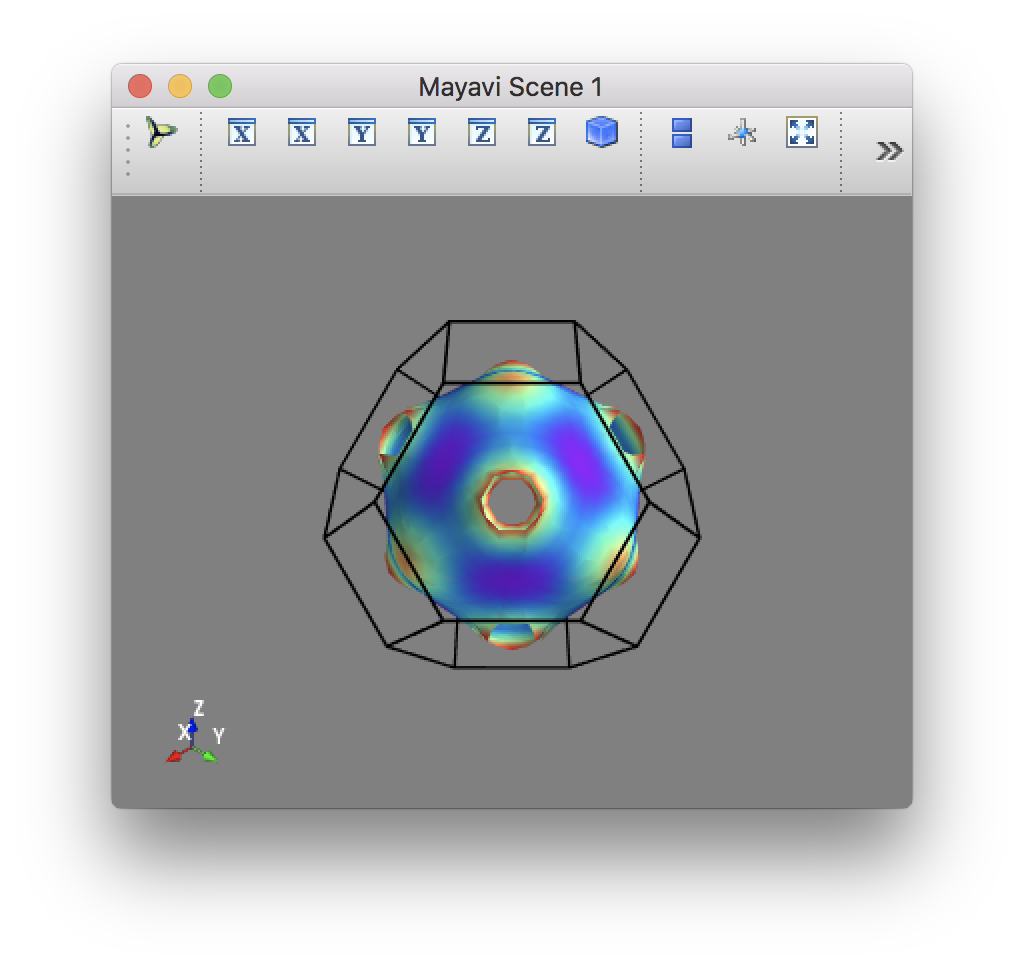
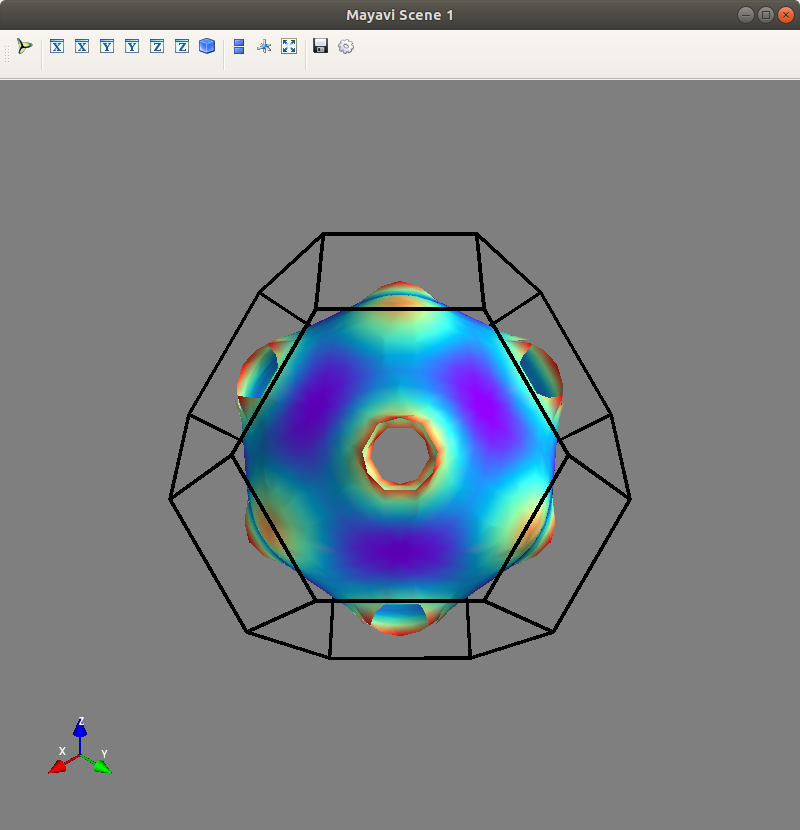
update readme; add examples

diff --git a/README.md b/README.md
@@ -42,17 +42,18 @@ optional arguments:
   -h, --help            show this help message and exit
   -i EIGVENVAL          Location of the EIGENVAL file. By default, the
                         KPOINTS/POSCAR are also read from the directory where
-                        the EIGENVAL is in.
-  --poscar POSCAR       location of VASP POSCAR
+
+
   --kpoints KPOINTS     location of VASP KPOINTS
   --plot {xcrys,mpl,mayavi}
                         Fermi surface plotting method
-  --cell {uc,bz}        Show Fermi surface in BZ or primitive unit cell?
+
   --efermi EFERMI       the Fermi energy
   --symprec SYMPREC     the symmetry precision used in spglib
   --kmesh KMESH KMESH KMESH
                         the kmesh in the KPOINTS
-
+  --interp NEW_KMESH NEW_KMESH NEW_KMESH
+                        the new grid size
 ```
 
 There are **three** different ways to visualize the Fermi surface:
@@ -73,7 +74,9 @@ xcrysden --bxsf ebands3d.bxsf
 
 For example, below is the the Fermi surface of `fcc Cu`
 
-![Copper Fermi Surface](examples/copper/fs_xcrysden_screenshot.png)
+<p align="center">
+  <img width="600" src="examples/copper/fs_xcrysden_screenshot.png">
+</p>
 
 + Using Matplotlib
 
@@ -81,13 +84,19 @@ For example, below is the the Fermi surface of `fcc Cu`
 fs.py --plot mpl
 ```
 
-![Copper Fermi Surface Mayavi](examples/copper/fs_matplotlib_screenshot.png)
+<p align="center">
+  <img width="600" src="examples/copper/fs_matplotlib_screenshot.png">
+</p>
 
 + Using Mayavi
 ```bash
-fs.py --plot mayavi
+fs.py --plot mayavi               # Fermi Surface in Brillouin Zone
+fs.py --plot mayavi --cell uc     # Fermi Surface in primitive cell
 ```
-![Copper Fermi Surface Mayavi](examples/copper/fs_mayavi_screenshot.png)
+<p align="center">
+  <img width="600" src="examples/copper/fs_mayavi_screenshot.png">
+  <img width="600" src="examples/copper/fs_uc_mayavi_screenshot.png">
+</p>
 
 ***
 _This file was generated by Remarkable on Thursday, 27. February 2020 04:45PM_
